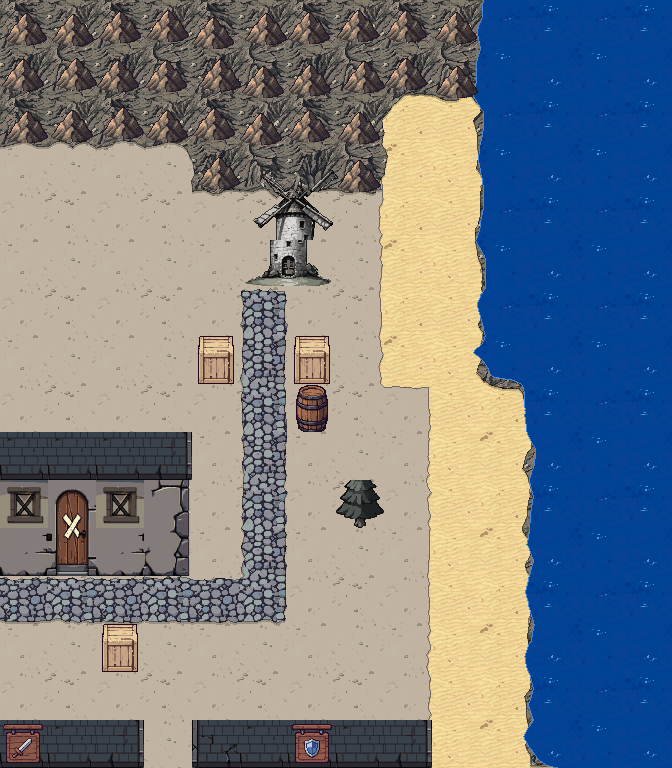
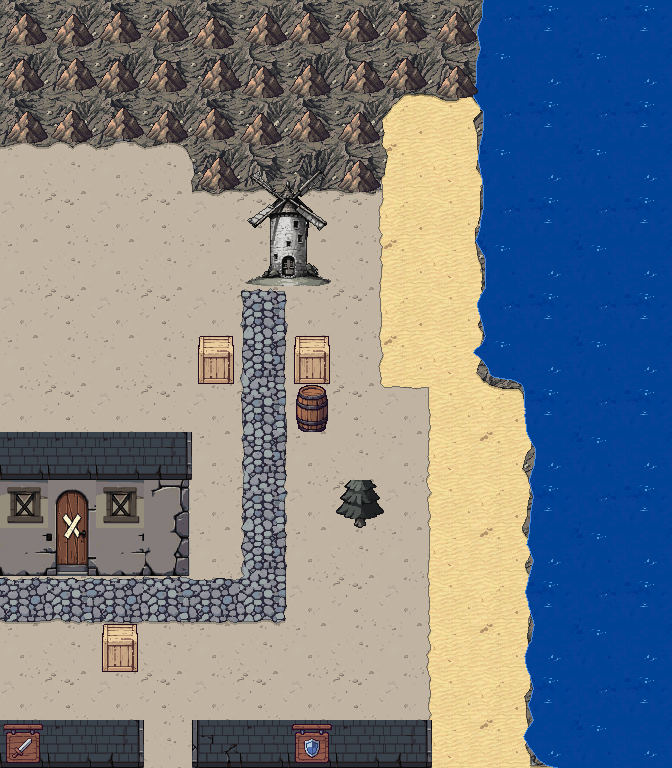
QF-3: Melmond's windmill is one whole deco (the per-row east offsets sheared it into horizontal breaks)

Changed region(s): [[0.375, 0.2188, 0.5, 0.3125]]

diff --git a/tests/quest/earth/ert_t_melmond.test.ts b/tests/quest/earth/ert_t_melmond.test.ts
@@ -135,3 +135,25 @@ describe('Melmond: doors, exits, keepers', () => {
     expect(town.name).toBe('Melmond');
   });
 });
+
+describe('Melmond: the windmill (QF, playtest 2026-11-22: "split horizontally about halfway up")', () => {
+  type Deco = { type: string; parts?: string[][]; x: number; y: number; offset?: number[]; style?: string; collide?: string };
+  const source = parse(readFileSync('assets-src/maps/melmond.yaml', 'utf-8')) as { objects: Deco[] };
+  const mills = source.objects.filter((o) => o.type === 'deco' && JSON.stringify(o.parts).includes('windmill_icon'));
+
+  it('is one whole deco of the icon\'s 3 rows at (37, 3), unsheared (no offset), grey, blocking where its art is', () => {
+    expect(mills).toHaveLength(1);
+    const [mill] = mills;
+    expect(mill.parts).toEqual([0, 1, 2].map((r) => [0, 1].map((c) => `windmill_icon_${r}_${c}`)));
+    expect([mill.x, mill.y]).toEqual([37, 3]);
+    expect(mill.offset ?? [0, 0]).toEqual([0, 0]);
+    expect(mill.style).toBe('stone');
+    expect(mill.collide).toBe('alpha');
+  });
+
+  it('the mill track still runs up to its foot: (37, 6) .. (37, 11) walk', () => {
+    for (let y = 6; y <= 11; y++) {
+      expect(terrainAllows('walking', baseTerrain(town, 37, y)), `(37, ${y})`).toBe(true);
+    }
+  });
+});

diff --git a/assets-src/tools/layouts/earth/town_melmond.py b/assets-src/tools/layouts/earth/town_melmond.py
@@ -140,11 +140,11 @@ for (x, y, t) in [(29, 17, "barrel"), (29, 18, "crate"), (24, 25, "barrel")]:
 for (x, y) in [(8, 21), (16, 21), (29, 21), (35, 21)]:         # lamps along the harbour road's south side
     deco([["lamp_top"], ["lamp_bottom"]], x, y, above_rows=1)
 
-# ── the windmill, leaning on its mound (each row of the sails' art set a little further east) ──
+# ── the windmill on its mound: one whole deco (QF: the old per-row east offsets sheared the art into visible
+# horizontal breaks); it blocks where its art is. No above rows: its top row stands on the hill rock (36-39, 2-3),
+# where no hero walks, so there is nothing to pass behind ──
 MILL = (37, 3)
-for r in range(3):
-    deco([[f"windmill_icon_{r}_{c}" for c in range(2)]], MILL[0], MILL[1] + r, style=DEAD, offset=[12 - 6 * r, 0],
-         collide="alpha")
+deco([[f"windmill_icon_{r}_{c}" for c in range(2)] for r in range(3)], MILL[0], MILL[1], style=DEAD, collide="alpha")
 for (x, y, t) in [(36, 7, "crate"), (38, 7, "crate"), (38, 8, "barrel"), (34, 13, "crate")]:
     obj(type=t, x=x, y=y)
 
